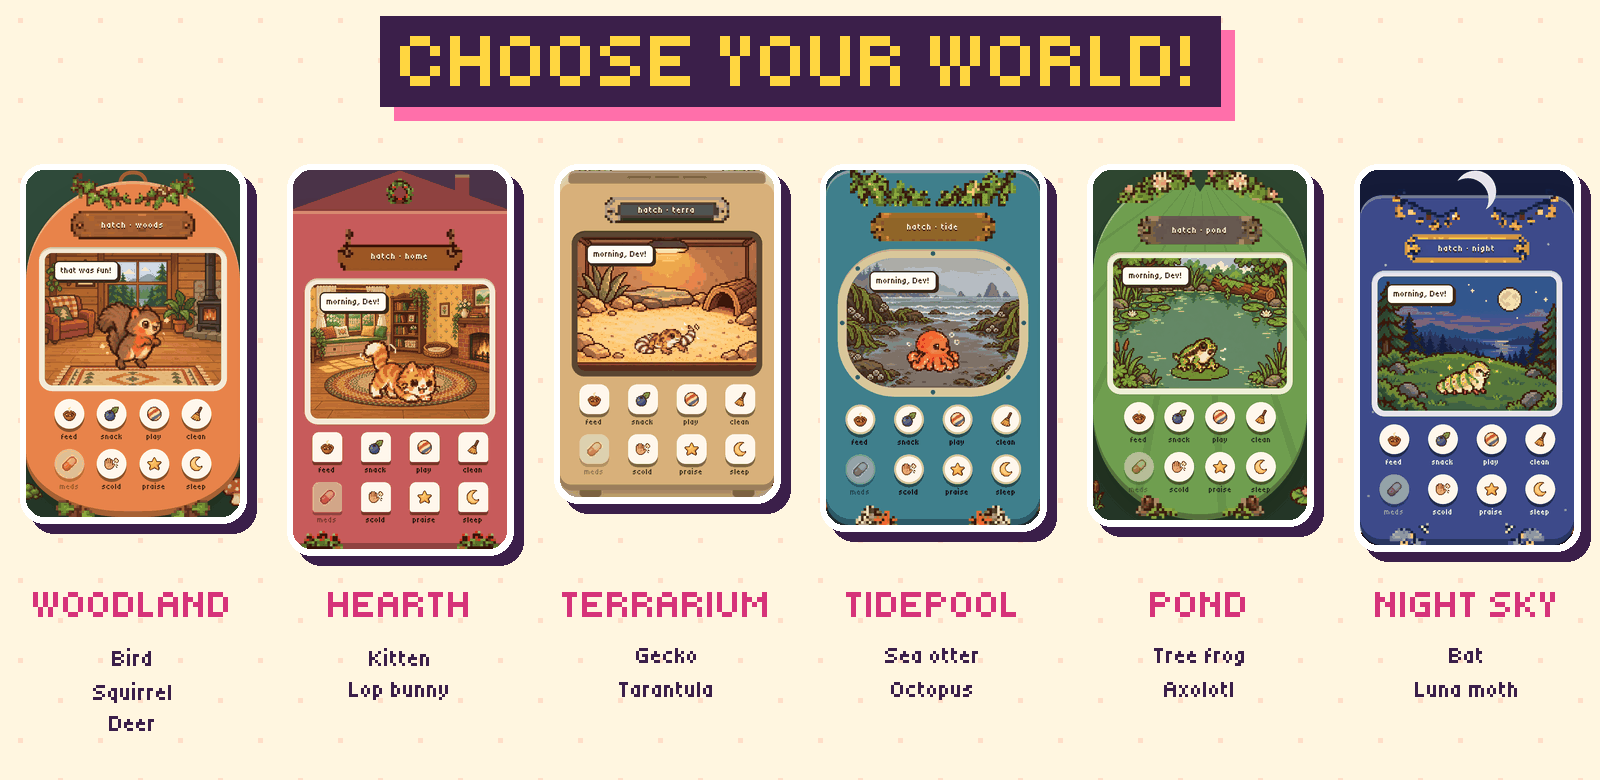
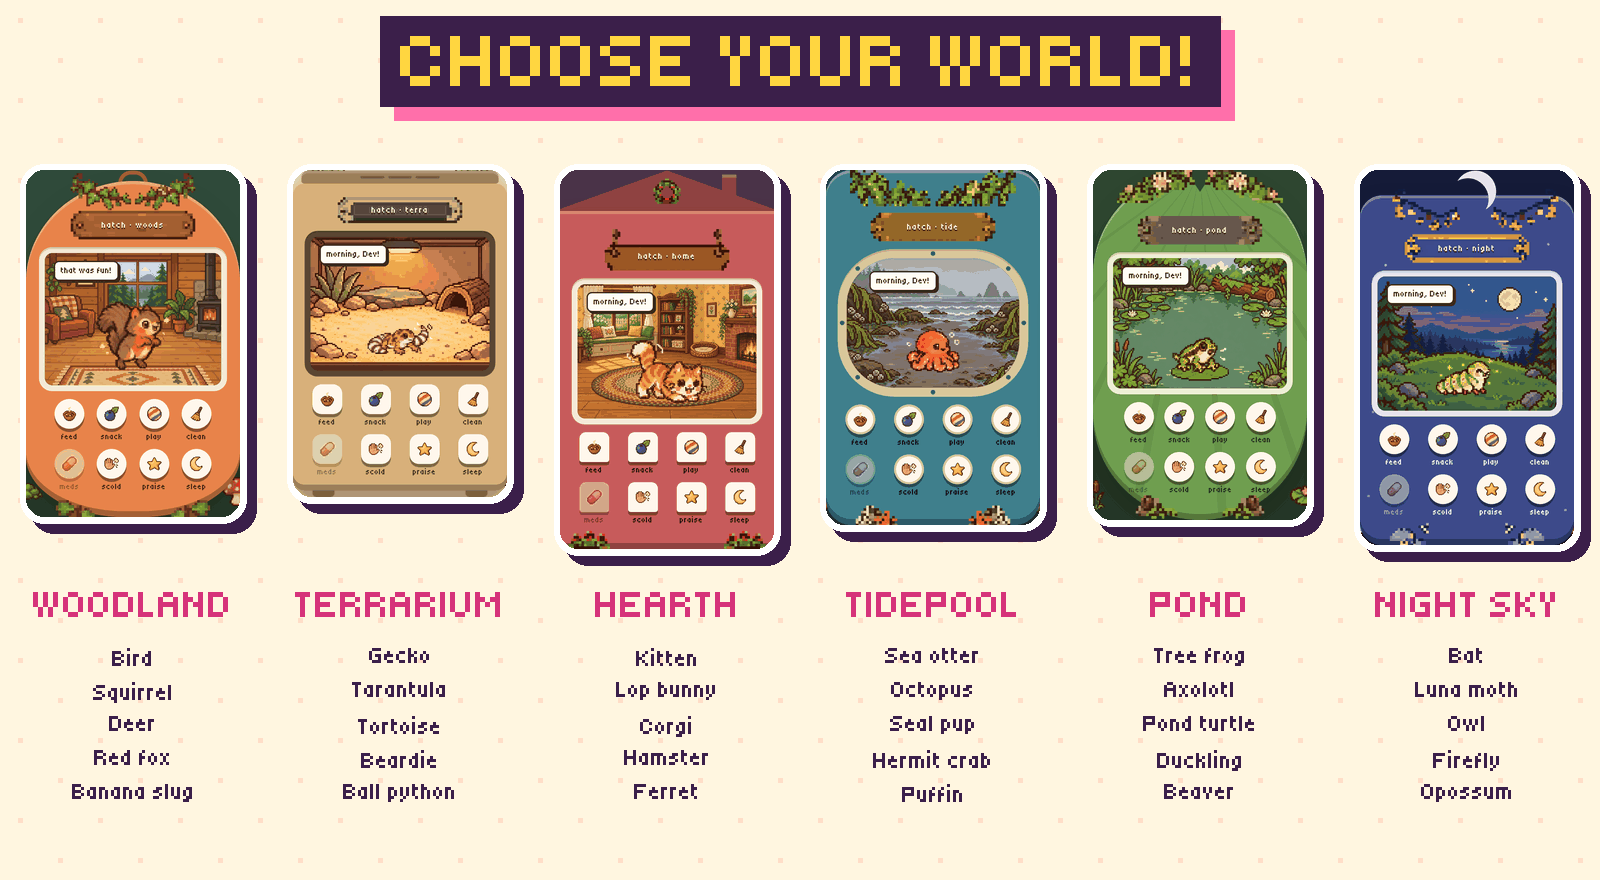
4e: README, guide and images show all 30 species; species.json short names
art.py reads rosters from worlds.json + species.json (asserts 30, skips the
beetle), prints the counts for the alt text; collect, hero and worlds re-laid.
The 17 new short names are proposed and need owner sign-off.

Claude-Session: https://claude.ai/code/session_01VHDmFrR2ZdfqvFBddV48DL

diff --git a/scripts/readme/art.py b/scripts/readme/art.py
@@ -8,6 +8,7 @@ Run from the repo root: python3 scripts/readme/art.py
 """
 
 import io
+import json
 import math
 from pathlib import Path
 import random
@@ -33,31 +34,33 @@ CREAM = (255, 246, 224)
 WHITE = (255, 255, 255)
 RED = (232, 52, 60)
 
+
+def load_rosters():
+    """Worlds and their species from worlds.json and each species.json.
+
+    A species with no species.json (the beetle) is skipped, as the card's
+    roster does. Returns [(title, key, [species])] and {species: short name}.
+    """
+    worlds_json = json.loads((FRONT / "worlds.json").read_text())
+    worlds, names = [], {}
+    for key, w in worlds_json.items():
+        roster = []
+        for sp in w["roster"]:
+            f = SPRITES / sp / "species.json"
+            if not f.exists():
+                continue
+            names[sp] = json.loads(f.read_text())["short"]
+            roster.append(sp)
+        worlds.append((w["name"], key, roster))
+    return worlds, names
+
+
 # (title, world key, roster in card order). The key names the UI emblem
 # (ui/emblem_<key>.png) and the screenshot (src/world-<key>.png).
-WORLDS = [
-    ("Woodland", "woodland", ["bird", "squirrel", "deer"]),
-    ("Hearth", "hearth", ["kitten", "bunny"]),
-    ("Terrarium", "terrarium", ["gecko", "tarantula"]),
-    ("Tidepool", "tidepool", ["otter", "octopus"]),
-    ("Pond", "pond", ["treefrog", "axolotl"]),
-    ("Night Sky", "nightsky", ["bat", "lunamoth"]),
-]
-NAMES = {
-    "bird": "Bird",
-    "squirrel": "Squirrel",
-    "deer": "Deer",
-    "kitten": "Kitten",
-    "bunny": "Lop bunny",
-    "gecko": "Gecko",
-    "tarantula": "Tarantula",
-    "otter": "Sea otter",
-    "octopus": "Octopus",
-    "treefrog": "Tree frog",
-    "axolotl": "Axolotl",
-    "bat": "Bat",
-    "lunamoth": "Luna moth",
-}
+WORLDS, NAMES = load_rosters()
+COUNT = sum(len(r) for _, _, r in WORLDS)
+assert COUNT == 30, COUNT
+MIN_TEXT = 3  # smallest label size, in font pixels
 
 
 def font_file() -> io.BytesIO:
@@ -255,7 +258,7 @@ def save(img, name):
 
 
 def hero():
-    w, h = 1600, 860
+    w, h = 1600, 1090
     img = sunburst(w, h, 520, 330, PINK, PINK_LT, rays=32)
     sparkles(img, 26, 1, (30, 30, w - 30, 560))
     # Two devices, tilted like toys in a blister pack.
@@ -275,19 +278,28 @@ def hero():
     pixel_text(img, (110, 330), "AT HOME!", 17, WHITE, PURPLE, shadow=PINK_DK)
     y = ribbon(img, 470, 500, "a virtual pet that lives in your house", 5)
     pixel_text(img, (470, y + 34), "for Home Assistant", 5, PURPLE, anchor="ma")
-    burst(img, 140, 690, 120, [("NEW!", 8), ("6 worlds", 4)], fill=YELLOW)
-    # Ground strip with the whole cast.
+    burst(img, 130, 655, 102, [("NEW!", 8), ("6 worlds", 4)], fill=YELLOW)
+    # Ground strip with the whole cast: two rows at 128, laid out by the
+    # sprites' visible width so no two overlap.
     d = ImageDraw.Draw(img)
     d.rectangle([0, 760, w, h], fill=PURPLE)
     d.rectangle([0, 752, w, 760], fill=YELLOW)
     cast = [s for _, _, roster in WORLDS for s in roster]
-    step = (w - 400) / (len(cast) - 1)
-    for i, s in enumerate(cast):
-        sp = sprite(s, "child_content_1", 136)
-        img.alpha_composite(sp, (round(330 + i * step - 68), 646))
+    per = math.ceil(len(cast) / 2)
+    for r, row in enumerate((cast[:per], cast[per:])):
+        sps = [sprite(s, "child_content_1", 128) for s in row]
+        boxes = [sp.getchannel("A").getbbox() for sp in sps]
+        vis = sum(b[2] - b[0] for b in boxes)
+        margin = 50
+        gap = (w - 2 * margin - vis) / (len(row) - 1)
+        assert gap >= 2, (r, gap)
+        x = margin
+        for sp, b in zip(sps, boxes, strict=True):
+            img.alpha_composite(sp, (round(x - b[0]), 772 + r * 124))
+            x += b[2] - b[0] + gap
     pixel_text(
         img,
-        (w // 2, 790),
+        (w // 2, 1030),
         "feed it!  play with it!  tuck it in!",
         5,
         YELLOW,
@@ -297,7 +309,7 @@ def hero():
 
 
 def worlds():
-    w, h = 1600, 780
+    w, h = 1600, 880
     img = Image.new("RGBA", (w, h), CREAM)
     d = ImageDraw.Draw(img)
     for x in range(0, w, 40):
@@ -324,7 +336,7 @@ def worlds():
         pixel_text(img, (cx, y), title.upper(), 5, PINK_DK, anchor="ma")
         y += 56
         for s in roster:
-            pixel_text(img, (cx, y), NAMES[s], 3, PURPLE, anchor="ma")
+            pixel_text(img, (cx, y), NAMES[s], MIN_TEXT, PURPLE, anchor="ma")
             y += 34
     save(img, "worlds.png")
 
@@ -370,20 +382,23 @@ def grow():
 
 
 def collect():
-    w, h = 1600, 900
+    rows = max(len(r) for _, _, r in WORLDS)
+    slot = 190  # one creature: sprite at 128 plus its label
+    top = 300
+    w, h = 1600, top + rows * slot + 60
     img = sunburst(w, h, w // 2, h // 2, CYAN, (110, 214, 236), rays=36)
     sparkles(img, 30, 5, (20, 20, w - 20, h - 20))
     pixel_text(
         img,
         (w // 2, 30),
-        "COLLECT ALL 13!",
+        f"COLLECT ALL {COUNT}!",
         10,
         YELLOW,
         PURPLE,
         shadow=PINK_DK,
         anchor="ma",
     )
-    col = w / 6
+    col = w / len(WORLDS)
     for i, (title, key, roster) in enumerate(WORLDS):
         cx = round(col * i + col / 2)
         d = ImageDraw.Draw(img)
@@ -398,21 +413,10 @@ def collect():
         )
         img.alpha_composite(emblem, (cx - 40, 166))
         pixel_text(img, (cx, 254), title.upper(), 4, PINK_DK, anchor="ma")
-        slot = (h - 30 - 300) / 3
         for j, s in enumerate(roster):
-            y = round(300 + j * slot)
-            img.alpha_composite(sprite(s, "adult_content_1", 168), (cx - 84, y - 20))
-            pixel_text(img, (cx, y + 140), NAMES[s], 3, PURPLE, anchor="ma")
-        if len(roster) == 2:
-            y = round(300 + 2 * slot)
-            egg_src = next(
-                (s for s in roster if (SPRITES / s / "egg_idle_1.png").exists()), None
-            )
-            if egg_src:
-                img.alpha_composite(
-                    sprite(egg_src, "egg_idle_1", 168), (cx - 84, y - 20)
-                )
-                pixel_text(img, (cx, y + 140), "which one?", 3, PINK_DK, anchor="ma")
+            y = top + j * slot
+            img.alpha_composite(sprite(s, "adult_content_1", 128), (cx - 64, y))
+            pixel_text(img, (cx, y + 132), NAMES[s], MIN_TEXT, PURPLE, anchor="ma")
     save(img, "collect.png")
 
 
@@ -463,6 +467,9 @@ def footer():
 
 
 if __name__ == "__main__":
+    print(f"Drew {COUNT} species in {len(WORLDS)} worlds.")
+    print(f'hero alt: "... a parade of all {COUNT} creatures."')
+    print(f'collect alt: "Collect all {COUNT}: the adult creatures of every world."')
     hero()
     worlds()
     grow()

diff --git a/docs/readme/README.md b/docs/readme/README.md
@@ -37,10 +37,10 @@ stable when you can.
   says good night; it yawns at a late TV), "spooky seasons" (only Halloween
   exists).
 - **Creature names** come from `sprites/<species>/species.json` `name`,
-  shortened (Bird, not Robin; Deer, not Fawn). `NAMES` in `art.py` holds the
-  short forms.
+  shortened (Bird, not Robin; Deer, not Fawn). each `species.json`'s `short`
+  holds the short form (`art.py` reads it).
 - **Numbers on the box:**
-  - 6 worlds, 13 creatures and 16 traits.
+  - 6 worlds, 30 creatures and 16 traits.
   - The stage times: egg → baby 30 min → child 1 day → teen 5 days → adult 14 days.
   - The 20-minute call window, and three wins out of five rounds in a game.
 
@@ -112,7 +112,7 @@ Each one is a function in `art.py`; reuse them rather than drawing anew.
   stands on it.
 - **Sprites:** `sprite(species, frame, size)` scales the card's 256×256 sprites
   with nearest-neighbour, so pixels stay square. Use sizes that divide well:
-  136, 168, 256. The feet of every sprite sit at y = 224 of 256.
+  128, 256. The feet of every sprite sit at y = 224 of 256.
 - **Screenshots:** scale them with Lanczos (`scale_w` / `scale_h`), since they
   aren't pure pixel art.
 - **Output:** every image is 1600 px wide, quantised to 256 colours without
@@ -122,10 +122,10 @@ Each one is a function in `art.py`; reuse them rather than drawing anew.
 
 | File | Canvas | Background | Contents | Sources |
 | --- | --- | --- | --- | --- |
-| `hero.png` | 1600×860 | Pink sunburst centred at (520, 330), 32 rays | Logo "HATCH"/"AT HOME!" top left. Tagline ribbon and "for Home Assistant". "NEW! 6 worlds" burst bottom left. Hearth and Woodland devices tilted +7° and −6° on the right. All 13 child sprites on the ground strip, and "feed it! play with it! tuck it in!" on the strip. | `src/world-hearth.png`, `src/world-woodland.png`, the sprites |
-| `worlds.png` | 1600×780 | Cream with a dot grid | "CHOOSE YOUR WORLD!". Six framed devices 214 px wide in six columns, each with its world name and creatures below. | `src/world-*.png` |
+| `hero.png` | 1600×1090 | Pink sunburst centred at (520, 330), 32 rays | Logo "HATCH"/"AT HOME!" top left. Tagline ribbon and "for Home Assistant". "NEW! 6 worlds" burst bottom left. Hearth and Woodland devices tilted +7° and −6° on the right. All 30 child sprites at 128 px on the ground strip, two rows, and "feed it! play with it! tuck it in!" on the strip. | `src/world-hearth.png`, `src/world-woodland.png`, the sprites |
+| `worlds.png` | 1600×880 | Cream with a dot grid | "CHOOSE YOUR WORLD!". Six framed devices 214 px wide in six columns, each with its world name and creatures below. | `src/world-*.png` |
 | `grow.png` | 1600×560 | Yellow sunburst from below centre | "WATCH IT GROW!". The kitten's five stages (256 px) on orange ground shadows, with pink arrows between, and the stage name and time under each. | Kitten sprites (egg is `egg_idle_1`, the rest `*_content_1`) |
-| `collect.png` | 1600×900 | Cyan sunburst | "COLLECT ALL 13!". Six cream cards, one per world, each with its emblem and name, and the adults at 168 px. Two-creature worlds fill the third slot with their egg and "which one?". | `ui/emblem_<world>.png`, `adult_content_1`, `egg_idle_1` |
+| `collect.png` | 1600×1310 | Cyan sunburst | "COLLECT ALL 30!" (the count is read from the files). Six cream cards, one per world, each with its emblem and name, and the five adults at 128 px. | `ui/emblem_<world>.png`, `adult_content_1`, `egg_idle_1` |
 | `play.png` | 1600×980 | Pink sunburst | "A LIFE OF ITS OWN!". Six framed screens (420 px wide) in a 3×2 grid, each with a pill caption. | `src/04a-greeting`, `04a-pick`, `04c-higher-lower`, `02-status`, `05-wish-granted`, `03-journal` |
 | `house.png` | 1600×980 | Purple sunburst | "IT KNOWS YOUR HOUSE!". The same grid. | `src/05-forecast`, `05-watching`, `05-first_snow`, `05-sunset`, `05-trait_learned`, `05-halloween-extras` |
 | `footer.png` | 1600×300 | White with a 6 px purple border | A barcode (the bits of "HATCH AT HOME"), "AGES 8 TO 108" and the small print, with a bird egg on the right. | Bird `egg_idle_1` |
@@ -161,12 +161,13 @@ HA (`scripts/setup` once, then `scripts/develop`).
 ## When the game changes
 
 - **A new creature:**
-  - Add it to its world's roster in `WORLDS` and to `NAMES`.
-  - Update the counts: "COLLECT ALL 13!" in `collect()` and "13" in the README
-    (the features and the collect alt text).
-  - `hero()` spaces the cast automatically. Past about 16 creatures, shrink the
-    sprite size.
-  - `collect()` fits three per card. A fourth needs a smaller `slot`.
+  - Add it to its world's roster in `worlds.json` and give its `species.json` a
+    `short` name. `art.py` reads both, asserts `COUNT` (30) and prints the count
+    for the alt text: update the assert, then "30" in the README (the hero and
+    collect alt text) and here.
+  - `hero()` lays two rows by each sprite's visible width and asserts they fit.
+  - `collect()` fits five per card. A sixth needs a taller canvas (it grows with
+    the longest roster).
 - **A new world:**
   - Add it to `WORLDS`, plus the `src/world-<key>.png` shot and its UI emblem.
   - The six-column layouts in `worlds()` and `collect()` assume six worlds; at

diff --git a/README.md b/README.md
@@ -1,5 +1,5 @@
 <p align="center">
-  <img src="https://raw.githubusercontent.com/alpine-vortex/hatch-at-home/main/docs/readme/hero.png" alt="Hatch at Home: a virtual pet that lives in your house, for Home Assistant. Two pet devices and a parade of all thirteen creatures." width="100%">
+  <img src="https://raw.githubusercontent.com/alpine-vortex/hatch-at-home/main/docs/readme/hero.png" alt="Hatch at Home: a virtual pet that lives in your house, for Home Assistant. Two pet devices and a parade of all 30 creatures." width="100%">
 </p>
 
 <h3 align="center">★ Your very own pixel pet... that lives in your smart home! ★</h3>
@@ -100,7 +100,7 @@ Hook up the things you already have, and your pet notices them:
 > nobody home it goes to the sitter's, and nothing runs down until you're back.
 
 <p align="center">
-  <img src="https://raw.githubusercontent.com/alpine-vortex/hatch-at-home/main/docs/readme/collect.png" alt="Collect all 13: the adult creatures of every world, with the eggs they hatch from" width="100%">
+  <img src="https://raw.githubusercontent.com/alpine-vortex/hatch-at-home/main/docs/readme/collect.png" alt="Collect all 30: the adult creatures of every world" width="100%">
 </p>
 
 ## 🐣 HOW TO HATCH YOUR EGG

diff --git a/docs/guide.md b/docs/guide.md
@@ -855,7 +855,7 @@ HACS's and Home Assistant's checks and the tests on every push.
 3. ✅ Home awareness: options (entity mapping, bedtime, privacy), weather, light, bedtime, presence, activity, AQI and requests
 4. Life (in progress): ✅ traits, ✅ generations and journal, ✅ moon, ✅ notifications, ✅ adult forms, ✅ upbringing, ✅ weight; still to come: bird visits from BirdNET-Pi
 5. ✅ HACS packaging
-6. Play (in progress): ✅ chore treats, ✅ the left or right game, ✅ higher or lower, ✅ talking to it through Assist; still to come: more species
+6. Play (in progress): ✅ chore treats, ✅ the left or right game, ✅ higher or lower, ✅ talking to it through Assist, ✅ 30 species
 
 ## License
 
